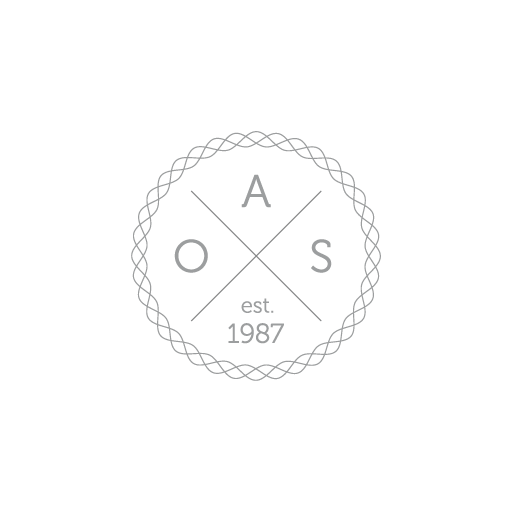
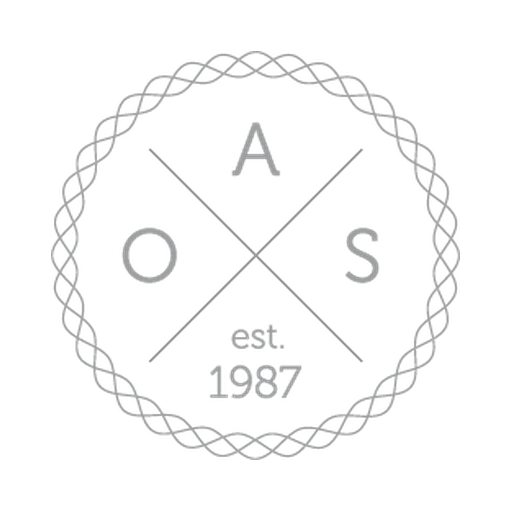
Complete AlexOS editorial site with IT focus, Behance and cool brand assets

diff --git a/index.html b/index.html
@@ -1,13 +1,12 @@
 <!doctype html>
-<html lang="es"><head><meta charset="utf-8"><meta name="viewport" content="width=device-width,initial-scale=1"><title>Alejandro Olmos · Responsable TIC</title><meta name="description" content="Alejandro Olmos. Responsable TIC en Valencia: infraestructura, Microsoft 365, dispositivos, redes y educación."><meta name="theme-color" content="#142c46"><meta property="og:title" content="Alejandro Olmos · Tecnología con visión de conjunto"><meta property="og:description" content="Infraestructura, sistemas y personas. Conoce mi perfil profesional y mis áreas de trabajo."><meta property="og:image" content="https://alexos.es/assets/img/og-image.jpg"><meta property="og:locale" content="es_ES"><meta name="author" content="Alejandro Olmos"><style>
-:root{--ink:#172e45;--muted:#566878;--blue:#225dc0;--paper:#f7f8fa;--line:#dce2e8}*{box-sizing:border-box}html{scroll-behavior:smooth;scroll-padding-top:95px}body{margin:0;font-family:Inter,"Segoe UI",sans-serif;color:var(--ink);background:var(--paper);line-height:1.65}a{color:inherit;text-underline-offset:5px}a:focus-visible,button:focus-visible,summary:focus-visible{outline:3px solid #377be0;outline-offset:5px}.wrap{max-width:1160px;margin:auto;padding:0 32px}header{position:sticky;top:0;z-index:10;background:#f7f8faf2;border-bottom:1px solid var(--line);backdrop-filter:blur(12px)}nav{height:82px;display:flex;align-items:center;justify-content:space-between;gap:25px}.brand{text-decoration:none;font-weight:700;font-size:18px;letter-spacing:-.6px}.brand b{background:var(--ink);color:white;display:inline-grid;place-items:center;width:38px;height:38px;margin-right:10px;border-radius:50%;font-size:13px;letter-spacing:0}.navlinks{display:flex;gap:28px;font-size:13px}.navlinks a{text-decoration:none}.navlinks a:hover{color:var(--blue)}.hero{padding:85px 0 72px}.hero-grid{display:grid;grid-template-columns:1.45fr 1fr;gap:75px;align-items:center}.eyebrow{font-size:11px;text-transform:uppercase;letter-spacing:2px;font-weight:700;color:var(--blue);margin:0 0 24px}.eyebrow:before{content:"";display:inline-block;width:25px;height:2px;background:currentColor;vertical-align:middle;margin-right:12px}h1{font-size:clamp(42px,5.4vw,70px);font-weight:600;line-height:1.07;letter-spacing:-3px;margin:0 0 28px}h1 em{font-family:Georgia,serif;font-weight:400;color:var(--blue)}.lead{font-size:18px;color:var(--muted);max-width:550px}.actions{display:flex;gap:23px;align-items:center;flex-wrap:wrap;margin-top:30px}.button{display:inline-flex;align-items:center;justify-content:center;gap:24px;background:var(--ink);color:white;padding:13px 22px;text-decoration:none;font-size:13px;border-radius:3px}.button:hover{background:var(--blue)}.text-link{font-size:13px;font-weight:600}.location{font-size:12px;color:var(--muted);margin-top:33px}.portrait{position:relative;padding:0 18px 20px 0}.portrait:after{content:"";position:absolute;inset:25px 0 0 25px;border:1px solid #b7c8d9;z-index:-1}.portrait img{width:100%;height:425px;display:block;object-fit:cover;object-position:center 25%;background:#e4eaf0;filter:saturate(.7)}.caption{background:var(--ink);color:white;padding:18px 24px;display:flex;justify-content:space-between;font-size:12px}.caption span{color:#b5c6d8}.strip{border-top:1px solid var(--line);border-bottom:1px solid var(--line);display:grid;grid-template-columns:repeat(3,1fr);padding:25px 0;margin-top:65px}.strip div{padding:0 30px;border-right:1px solid var(--line)}.strip div:first-child{padding-left:0}.strip div:last-child{border:0}.strip strong{display:block;font-size:20px;font-weight:600;letter-spacing:-.5px}.strip span{font-size:12px;color:var(--muted)}section.content{padding:85px 0;border-bottom:1px solid var(--line)}.section-grid{display:grid;grid-template-columns:1fr 2fr;gap:60px}h2{font-size:38px;font-weight:500;line-height:1.15;letter-spacing:-1.4px;margin:0 0 25px}.intro{font-size:23px;line-height:1.55;margin-top:0;letter-spacing:-.4px}.muted{color:var(--muted)}.skills{display:grid;grid-template-columns:1fr 1fr;gap:0 35px}.skill{border-top:1px solid var(--line);padding:23px 0}.number{font-size:11px;color:var(--blue);font-weight:700}h3{font-size:19px;font-weight:600;letter-spacing:-.4px;margin:12px 0}.skill p{font-size:14px;color:var(--muted)}.tags{display:flex;flex-wrap:wrap;gap:7px}.tags span,.tags a{font-size:10px;padding:4px 8px;border:1px solid var(--line);border-radius:3px}.tags a{color:var(--blue);text-decoration:none}.tags a:hover{text-decoration:underline;border-color:var(--blue)}.skill-link{display:inline-block;font-size:12px;color:var(--blue);margin-top:14px}.project:target{outline:2px solid #b7c8d9;outline-offset:8px}.experience{display:grid;grid-template-columns:150px 1fr;gap:25px;padding:28px 0;border-top:1px solid var(--line)}.date{font-size:12px;color:var(--muted);padding-top:14px}.experience h3{margin:7px 0}.experience p{font-size:14px;color:var(--muted)}.org{font-size:13px;color:var(--blue)}.projects{background:#edf1f5}.project{border-top:1px solid #ccd5de;padding:23px 0}.project summary{cursor:pointer;display:flex;align-items:center;gap:20px;list-style:none;font-size:19px;line-height:1.4;font-weight:500}.project summary::-webkit-details-marker{display:none}.project summary:after{content:"+";margin-left:auto;font-size:25px;color:var(--blue)}.project[open] summary:after{content:"−"}.project p{color:var(--muted);font-size:14px;margin-left:40px;max-width:590px}.contact{background:var(--ink);color:white;padding:75px 0}.contact .eyebrow{color:#a1bfee}.contact h2{font-size:clamp(35px,4.6vw,56px)}.contact p{color:#bdcbd8}.contact a{display:inline-block;margin:10px 25px 0 0}.contact-grid{display:grid;grid-template-columns:1.5fr 1fr;gap:50px;align-items:center}.mail{font-size:clamp(16px,2vw,23px)}footer{padding:25px 0;font-size:11px;color:var(--muted)}footer .wrap{display:flex;justify-content:space-between;gap:20px}.print{background:none;border:0;padding:0;color:inherit;text-decoration:underline;cursor:pointer;font:inherit}.skip{position:absolute;left:10px;top:-100px;background:white;padding:10px;z-index:100}.skip:focus{top:10px}
-@media(max-width:800px){html{scroll-padding-top:135px}.wrap{padding:0 23px}.hero{padding-top:50px}.hero-grid{grid-template-columns:1fr;gap:40px}h1{letter-spacing:-2px}.portrait{max-width:420px}.portrait img{height:370px}.section-grid,.contact-grid{grid-template-columns:1fr;gap:20px}section.content{padding:55px 0}.strip{margin-top:45px}.strip div{padding:0 15px}.strip strong{font-size:16px}.strip span{font-size:11px}.navlinks{gap:15px;font-size:12px}nav{height:auto;min-height:82px;flex-wrap:wrap;padding-top:15px!important;padding-bottom:15px!important;gap:10px}.navlinks{flex-wrap:wrap;gap:8px 16px;width:100%;padding-bottom:3px}.caption{gap:12px;flex-wrap:wrap}.brand{font-size:15px}.brand b{display:none}.experience{grid-template-columns:110px 1fr;gap:10px}h2{font-size:32px}.intro{font-size:20px}}@media(max-width:450px){.skills{grid-template-columns:1fr}.navlinks{gap:12px}.strip{grid-template-columns:1fr;gap:15px}.strip div{padding:0;border:0}.strip strong{display:inline;margin-right:8px}.experience{grid-template-columns:1fr;gap:0}}@media(prefers-reduced-motion:reduce){html{scroll-behavior:auto}}@media print{header,.actions,.print,.skip{display:none}body{background:white;font-size:11px}.hero,section.content,.contact{padding:20px 0}.hero-grid{grid-template-columns:2fr 1fr;gap:25px}h1{font-size:35px}.portrait img{height:220px}.strip{margin-top:20px}.section-grid{grid-template-columns:1fr 3fr;gap:25px}.contact{background:white;color:var(--ink)}.contact p{color:var(--muted)}details p{display:block!important}.experience,.skill{break-inside:avoid}}
-</style><script defer src="/assets/js/analytics.js"></script>
-</head><body><a class="skip" href="#contenido">Saltar al contenido</a>
-<header><nav class="wrap" aria-label="Navegación principal"><a class="brand" href="#inicio"><b>AO</b>Alejandro Olmos<span style="color:var(--blue)">.</span></a><div class="navlinks"><a href="#perfil">Perfil</a><a href="#especializacion">Especialización</a><a href="#experiencia">Trayectoria</a><a href="#proyectos">Proyectos</a><a href="#contacto">Contacto ↗</a></div></nav></header>
-<main id="contenido"><section class="hero" id="inicio"><div class="wrap"><div class="hero-grid"><div><p class="eyebrow">Responsable TIC · Valencia</p><h1>Infraestructura,<br>sistemas<br>y <em>personas.</em></h1><p class="lead">Organizo y gestiono la tecnología para que las personas puedan centrarse en su trabajo.</p><div class="actions"><a class="button" href="#experiencia">Conoce mi trayectoria <span aria-hidden="true">↓</span></a><a class="text-link" href="https://www.linkedin.com/in/alejandro-olmos-salvador" target="_blank" rel="noopener noreferrer">LinkedIn ↗</a></div><p class="location">Valencia, España · Infraestructura y estrategia tecnológica</p></div><div class="portrait"><img src="assets/img/profile.png" alt="Retrato de Alejandro Olmos" width="500" height="550"><div class="caption"><strong>Gestión tecnológica</strong><span>Visión de conjunto</span></div></div></div><div class="strip"><div><strong>Desde 2013</strong><span>Gestión tecnológica</span></div><div><strong>Microsoft 365</strong><span>Identidad, cloud y dispositivos</span></div><div><strong>Educación</strong><span>Tecnología al servicio de las personas</span></div></div></div></section>
+<html lang="es"><head><meta charset="utf-8"><meta name="viewport" content="width=device-width,initial-scale=1"><title>Alejandro Olmos · Tecnología de la Información</title><meta name="description" content="Alejandro Olmos. Responsable TIC en Valencia. Infraestructura, Microsoft 365, dispositivos y redes. Diseño como perspectiva complementaria y portfolio en Behance."><meta name="theme-color" content="#172e45"><meta property="og:title" content="Alejandro Olmos · Tecnología con visión de conjunto"><meta property="og:description" content="Infraestructura, sistemas y personas. Conoce mi perfil profesional y mis áreas de trabajo."><meta property="og:image" content="https://alexos.es/assets/brand/social-1200x630.png"><meta property="og:locale" content="es_ES"><meta name="author" content="Alejandro Olmos"><link rel="stylesheet" href="assets/css/editorial.css"><script defer src="/assets/js/analytics.js"></script>
+<link rel="icon" href="assets/brand/favicon.ico" sizes="any"><link rel="apple-touch-icon" href="assets/brand/apple-touch-icon.png"></head><body><a class="skip" href="#contenido">Saltar al contenido</a>
+<header><nav class="wrap" aria-label="Navegación principal"><a class="brand" href="#inicio" aria-label="AlexOS · Alejandro Olmos · Inicio"><img src="assets/brand/emblema-original.png" alt="" width="54" height="54"><span class="wordmark">alexos</span><span class="brand-name">Alejandro Olmos</span></a><div class="navlinks"><a href="#perfil">Perfil</a><a href="#especializacion">Especialización</a><a href="#experiencia">Trayectoria</a><a href="#proyectos">Proyectos</a><a href="#diseno">Diseño</a><a href="#contacto">Contacto ↗</a></div></nav></header>
+<main id="contenido"><section class="hero" id="inicio"><div class="wrap"><div class="hero-grid"><div><p class="eyebrow">Tecnología de la Información · Valencia</p><h1>Infraestructura,<br>sistemas<br>y <em>personas.</em></h1><p class="lead">Soy responsable TIC. Organizo la infraestructura, los sistemas y los servicios tecnológicos para que las personas puedan centrarse en su trabajo.</p><div class="actions"><a class="button" href="#experiencia">Conoce mi trayectoria <span aria-hidden="true">↓</span></a><a class="text-link" href="https://www.linkedin.com/in/alejandro-olmos-salvador" target="_blank" rel="noopener noreferrer">LinkedIn ↗</a></div><p class="location">Valencia, España · Infraestructura y estrategia tecnológica</p></div><div class="portrait"><img src="assets/img/profile.png" alt="Retrato de Alejandro Olmos" width="500" height="550"><div class="caption"><strong>Gestión tecnológica</strong><span>Visión de conjunto</span></div></div></div><div class="strip"><div><strong>Desde 2013</strong><span>Gestión tecnológica</span></div><div><strong>Microsoft 365</strong><span>Identidad, cloud y dispositivos</span></div><div><strong>Educación</strong><span>Tecnología al servicio de las personas</span></div></div></div></section>
 <section class="content" id="perfil"><div class="wrap section-grid"><div><p class="eyebrow">01 · Perfil</p><h2>Visión de conjunto.<br>Trabajo cercano.</h2></div><div><p class="intro">Mi trabajo conecta la infraestructura técnica con las necesidades de una organización: desde la red y los dispositivos hasta la seguridad, el soporte y la adopción de nuevas herramientas.</p><p class="muted">Soy responsable TIC en el Colegio Nuestra Señora del Pilar de Valencia. Combino la administración de sistemas con la planificación tecnológica y la atención a docentes, alumnado y personal del centro.</p><p class="muted">Durante dos años impartí docencia en programación, redes, sistemas e inteligencia artificial. Esa experiencia complementa mi perspectiva: entender la tecnología también significa saber explicarla.</p></div></div></section>
 <section class="content" id="especializacion"><div class="wrap section-grid"><div><p class="eyebrow">02 · Especialización</p><h2>De la arquitectura<br>al día a día.</h2><p class="muted">Áreas que se complementan para mantener un entorno tecnológico coherente.</p></div><div class="skills"><article class="skill"><span class="number">01 /</span><h3>Microsoft 365 e identidad</h3><p>Administración de usuarios, grupos, licencias y herramientas de colaboración. Identidad y acceso como base del entorno de trabajo.</p><div class="tags"><a href="#proyecto-automatizacion" aria-label="Microsoft 365: ver proyecto relacionado">Microsoft 365</a><a href="#proyecto-automatizacion" aria-label="Entra ID: ver proyecto relacionado">Entra ID</a><a href="#proyecto-automatizacion" aria-label="Teams: ver proyecto relacionado">Teams</a><a href="#proyecto-automatizacion" aria-label="SharePoint: ver proyecto relacionado">SharePoint</a></div><a class="skill-link" href="#proyecto-automatizacion">Ver administración y automatización ↓</a></article><article class="skill"><span class="number">02 /</span><h3>Dispositivos y sistemas</h3><p>Preparación, despliegue y gestión de equipos Windows. Configuraciones y aplicaciones adaptadas a cada grupo de usuarios.</p><div class="tags"><a href="#proyecto-dispositivos" aria-label="Intune: ver proyecto relacionado">Intune</a><a href="#proyecto-dispositivos" aria-label="Autopilot: ver proyecto relacionado">Autopilot</a><a href="#proyecto-dispositivos" aria-label="Windows: ver proyecto relacionado">Windows</a></div><a class="skill-link" href="#proyecto-dispositivos">Ver gestión de dispositivos ↓</a></article><article class="skill"><span class="number">03 /</span><h3>Redes e infraestructura</h3><p>Diseño y administración de conectividad, segmentación de red, Wi-Fi corporativo y políticas de seguridad perimetral.</p><div class="tags"><a href="#proyecto-red" aria-label="Aruba: ver proyecto relacionado">Aruba</a><a href="#proyecto-red" aria-label="SonicWall: ver proyecto relacionado">SonicWall</a><a href="#proyecto-red" aria-label="VLAN: ver proyecto relacionado">VLAN</a><a href="#proyecto-red" aria-label="Wi-Fi: ver proyecto relacionado">Wi-Fi</a></div><a class="skill-link" href="#proyecto-red">Ver organización de la red ↓</a></article><article class="skill"><span class="number">04 /</span><h3>Automatización y educación</h3><p>Scripts para simplificar tareas de administración y experiencia docente en programación, sistemas e inteligencia artificial.</p><div class="tags"><a href="#proyecto-automatizacion" aria-label="PowerShell: ver proyecto relacionado">PowerShell</a><a href="#proyecto-automatizacion" aria-label="Microsoft Graph: ver proyecto relacionado">Microsoft Graph</a><a href="#proyecto-automatizacion" aria-label="Python: ver proyecto relacionado">Python</a></div><a class="skill-link" href="#proyecto-automatizacion">Ver automatización en la práctica ↓</a></article></div></div></section>
 <section class="content" id="experiencia"><div class="wrap section-grid"><div><p class="eyebrow">03 · Trayectoria</p><h2>Experiencia<br>sobre el terreno.</h2></div><div><article class="experience"><span class="date">2016 — Actualidad</span><div><h3>Responsable TIC</h3><a class="org" href="https://www.elpilarvalencia.org/" target="_blank" rel="noopener noreferrer">Colegio Nuestra Señora del Pilar · Valencia ↗</a><p>Gestión de infraestructura, sistemas, redes y Microsoft 365. Definición de la arquitectura tecnológica, políticas de seguridad y soporte a la comunidad educativa.</p></div></article><article class="experience"><span class="date">2023 — 2025</span><div><h3>Profesor de informática</h3><span class="org">ESO y Bachillerato · <a href="https://www.elpilarvalencia.org/" target="_blank" rel="noopener noreferrer">El Pilar ↗</a></span><p>Impartí durante dos años materias de programación, redes, sistemas informáticos e inteligencia artificial aplicada.</p></div></article><article class="experience"><span class="date">2013 — 2016</span><div><h3>Responsable TIC</h3><a class="org" href="https://www.colegioamoros.org/" target="_blank" rel="noopener noreferrer">Colegio Amorós · Madrid ↗</a><p>Gestión de infraestructura tecnológica y acompañamiento a la transformación digital del centro.</p></div></article><article class="experience"><span class="date">Mayo 2012 — Septiembre 2013</span><div><h3>Redactor de contenidos web</h3><a class="org" href="https://www.awwwards.com/" target="_blank" rel="noopener noreferrer">Awwwards.com ↗</a><p>Redacción de artículos sobre diseño web, experiencia de usuario (UX/UI), tendencias digitales y herramientas creativas para una comunidad internacional de diseñadores y desarrolladores. Investigación de tendencias y colaboración con el equipo editorial en la planificación y revisión de contenidos.</p></div></article></div></div></section>
 <section class="content projects" id="proyectos"><div class="wrap section-grid"><div><p class="eyebrow">04 · Proyectos</p><h2>La tecnología,<br>en la práctica.</h2><p class="muted">Una selección de líneas de trabajo en el entorno educativo.</p></div><div><details class="project" id="proyecto-dispositivos" open><summary><span class="number">01</span>Gestión de dispositivos en el aula</summary><p><strong>El contexto.</strong> Un entorno educativo 1:1 con equipos de alumnado, docentes y aulas, cada uno con necesidades de uso y administración diferentes.</p><p><strong>El reto.</strong> Preparar los dispositivos de forma coherente y adaptar las aplicaciones y configuraciones a cada grupo de usuarios.</p><p><strong>Mi aportación.</strong> Configuración de Intune y Autopilot, despliegue de aplicaciones y definición de políticas para los equipos Windows.</p><p><strong>El resultado.</strong> Equipos administrados de forma centralizada, con aplicaciones y configuraciones asignadas según su uso en el centro.</p></details><details class="project" id="proyecto-red"><summary><span class="number">02</span>Organización de la red del centro</summary><p><strong>El contexto.</strong> Una infraestructura compartida por la comunidad educativa, los servicios del centro y equipos como impresoras y sistemas audiovisuales.</p><p><strong>El reto.</strong> Organizar la conectividad y separar entornos con necesidades de acceso distintas.</p><p><strong>Mi aportación.</strong> Diseño de la segmentación mediante VLAN, administración de switches y puntos de acceso Aruba, y configuración del firewall SonicWall.</p><p><strong>El resultado.</strong> Una red organizada en segmentos para usuarios y servicios, con políticas de acceso diferenciadas y una gestión específica de la infraestructura.</p></details><details class="project" id="proyecto-automatizacion"><summary><span class="number">03</span>Administración y automatización</summary><p><strong>El contexto.</strong> La administración cotidiana de Microsoft 365 y de los dispositivos incluye tareas que se repiten sobre usuarios, grupos y configuraciones.</p><p><strong>El reto.</strong> Aplicar cambios de manera coherente y facilitar las operaciones recurrentes.</p><p><strong>Mi aportación.</strong> Desarrollo y uso de scripts PowerShell y Microsoft Graph para administrar usuarios, grupos, licencias y configuraciones.</p><p><strong>El resultado.</strong> Tareas recurrentes resueltas mediante scripts reutilizables, que permiten aplicar cambios sobre conjuntos de usuarios o dispositivos.</p></details></div></div></section>
-<section class="contact" id="contacto"><div class="wrap contact-grid"><div><p class="eyebrow">Contacto</p><h2>Conectemos.</h2><p>Para conversar sobre tecnología, educación<br>y oportunidades profesionales.</p></div><div><a class="mail" href="mailto:olmos.alex@gmail.com">olmos.alex@gmail.com ↗</a><br><a href="https://www.linkedin.com/in/alejandro-olmos-salvador" target="_blank" rel="noopener noreferrer">Mi perfil en LinkedIn ↗</a></div></div></section></main><footer><div class="wrap"><span>© <span id="year">2026</span> Alejandro Olmos · Valencia</span><button class="print" onclick="window.print()">Guardar perfil como PDF</button><a href="#inicio">Volver arriba ↑</a></div></footer><script>document.getElementById('year').textContent=new Date().getFullYear();function openLinkedProject(){const id=window.location.hash.slice(1);const project=document.getElementById(id);if(project&&project.matches('details.project')){project.open=true;}}window.addEventListener('hashchange',openLinkedProject);openLinkedProject();document.querySelectorAll('a[href^="#proyecto-"]').forEach(link=>link.addEventListener('click',()=>{const project=document.getElementById(link.getAttribute('href').slice(1));if(project){project.open=true;project.querySelector('summary').focus({preventScroll:true});}}));window.addEventListener('beforeprint',()=>{document.querySelectorAll('details').forEach(d=>{d.dataset.wasOpen=d.open;d.open=true})});window.addEventListener('afterprint',()=>{document.querySelectorAll('details').forEach(d=>{d.open=d.dataset.wasOpen==='true'})});</script></body></html>
+<section class="content design-section" id="diseno"><div class="wrap section-grid"><div><p class="eyebrow">05 · Diseño</p><h2>Una mirada<br>desde el diseño.</h2></div><div><p class="intro">La Tecnología de la Información es el eje de mi trabajo. El diseño aporta una perspectiva complementaria: atención a la forma, claridad y cuidado por cómo se presenta la información.</p><p class="muted">Mi portfolio en Behance reúne esta faceta creativa.</p><a class="design-link" href="https://www.behance.net/alexolmos" target="_blank" rel="noopener noreferrer">Ver mi portfolio en Behance ↗</a></div></div></section>
+<section class="contact" id="contacto"><div class="wrap contact-grid"><div><p class="eyebrow">Contacto</p><h2>Conectemos.</h2><p>Para conversar sobre tecnología, diseño<br>y oportunidades profesionales.</p></div><div><a class="mail" href="mailto:olmos.alex@gmail.com">olmos.alex@gmail.com ↗</a><br><a href="https://www.linkedin.com/in/alejandro-olmos-salvador" target="_blank" rel="noopener noreferrer">Mi perfil en LinkedIn ↗</a><br><a href="https://www.behance.net/alexolmos" target="_blank" rel="noopener noreferrer">Mi portfolio en Behance ↗</a></div></div></section></main><footer><div class="wrap"><span>© <span id="year">2026</span> Alejandro Olmos · Valencia</span><button class="print" onclick="window.print()">Guardar perfil como PDF</button><a href="#inicio">Volver arriba ↑</a></div></footer><script>document.getElementById('year').textContent=new Date().getFullYear();function openLinkedProject(){const id=window.location.hash.slice(1);const project=document.getElementById(id);if(project&&project.matches('details.project')){project.open=true;}}window.addEventListener('hashchange',openLinkedProject);openLinkedProject();document.querySelectorAll('a[href^="#proyecto-"]').forEach(link=>link.addEventListener('click',()=>{const project=document.getElementById(link.getAttribute('href').slice(1));if(project){project.open=true;project.querySelector('summary').focus({preventScroll:true});}}));window.addEventListener('beforeprint',()=>{document.querySelectorAll('details').forEach(d=>{d.dataset.wasOpen=d.open;d.open=true})});window.addEventListener('afterprint',()=>{document.querySelectorAll('details').forEach(d=>{d.open=d.dataset.wasOpen==='true'})});</script></body></html>
+

diff --git a/contacto.html b/contacto.html
@@ -4,13 +4,13 @@
 <meta charset="UTF-8" />
 <meta name="viewport" content="width=device-width, initial-scale=1.0" />
 <title>Contacto · Alejandro Olmos</title>
-<link rel="stylesheet" href="assets/css/style.css" />
+<link rel="stylesheet" href="assets/css/editorial.css" />
 <script defer src="/assets/js/analytics.js"></script>
-</head>
+<link rel="icon" href="assets/brand/favicon.ico" sizes="any"><link rel="apple-touch-icon" href="assets/brand/apple-touch-icon.png"></head>
 <body>
 <header class="header">
 <div class="container nav">
-<div class="logo">Alejandro Olmos</div>
+<a class="brand" href="index.html" aria-label="AlexOS · Inicio"><img src="assets/brand/emblema-original.png" alt="" width="54" height="54"><span class="wordmark">alexos</span></a>
 <nav>
 <a href="index.html">Inicio</a>
 <a href="experiencia.html">Experiencia</a>
@@ -35,6 +35,6 @@
 <p><a href="https://www.linkedin.com/in/alejandro-olmos-salvador">LinkedIn</a></p>
 </div>
 </div>
-</main>
+<div class="container narrow"><p><a href="https://www.behance.net/alexolmos" target="_blank" rel="noopener noreferrer">Portfolio de diseño en Behance ↗</a></p></div></main>
 </body>
 </html>

diff --git a/experiencia.html b/experiencia.html
@@ -4,13 +4,13 @@
 <meta charset="UTF-8" />
 <meta name="viewport" content="width=device-width, initial-scale=1.0" />
 <title>Experiencia · Alejandro Olmos</title>
-<link rel="stylesheet" href="assets/css/style.css" />
+<link rel="stylesheet" href="assets/css/editorial.css" />
 <script defer src="/assets/js/analytics.js"></script>
-</head>
+<link rel="icon" href="assets/brand/favicon.ico" sizes="any"><link rel="apple-touch-icon" href="assets/brand/apple-touch-icon.png"></head>
 <body>
 <header class="header">
 <div class="container nav">
-<div class="logo">Alejandro Olmos</div>
+<a class="brand" href="index.html" aria-label="AlexOS · Inicio"><img src="assets/brand/emblema-original.png" alt="" width="54" height="54"><span class="wordmark">alexos</span></a>
 <nav>
 <a href="index.html">Inicio</a>
 <a href="experiencia.html" class="active">Experiencia</a>

diff --git a/especializacion.html b/especializacion.html
@@ -4,13 +4,13 @@
 <meta charset="UTF-8" />
 <meta name="viewport" content="width=device-width, initial-scale=1.0" />
 <title>Especialización · Alejandro Olmos</title>
-<link rel="stylesheet" href="assets/css/style.css" />
+<link rel="stylesheet" href="assets/css/editorial.css" />
 <script defer src="/assets/js/analytics.js"></script>
-</head>
+<link rel="icon" href="assets/brand/favicon.ico" sizes="any"><link rel="apple-touch-icon" href="assets/brand/apple-touch-icon.png"></head>
 <body>
 <header class="header">
 <div class="container nav">
-<div class="logo">Alejandro Olmos</div>
+<a class="brand" href="index.html" aria-label="AlexOS · Inicio"><img src="assets/brand/emblema-original.png" alt="" width="54" height="54"><span class="wordmark">alexos</span></a>
 <nav>
 <a href="index.html">Inicio</a>
 <a href="experiencia.html">Experiencia</a>

diff --git a/sobre-mi.html b/sobre-mi.html
@@ -4,13 +4,13 @@
 <meta charset="UTF-8" />
 <meta name="viewport" content="width=device-width, initial-scale=1.0" />
 <title>Sobre mí · Alejandro Olmos</title>
-<link rel="stylesheet" href="assets/css/style.css" />
+<link rel="stylesheet" href="assets/css/editorial.css" />
 <script defer src="/assets/js/analytics.js"></script>
-</head>
+<link rel="icon" href="assets/brand/favicon.ico" sizes="any"><link rel="apple-touch-icon" href="assets/brand/apple-touch-icon.png"></head>
 <body>
 <header class="header">
 <div class="container nav">
-<div class="logo">Alejandro Olmos</div>
+<a class="brand" href="index.html" aria-label="AlexOS · Inicio"><img src="assets/brand/emblema-original.png" alt="" width="54" height="54"><span class="wordmark">alexos</span></a>
 <nav>
 <a href="index.html">Inicio</a>
 <a href="experiencia.html">Experiencia</a>
